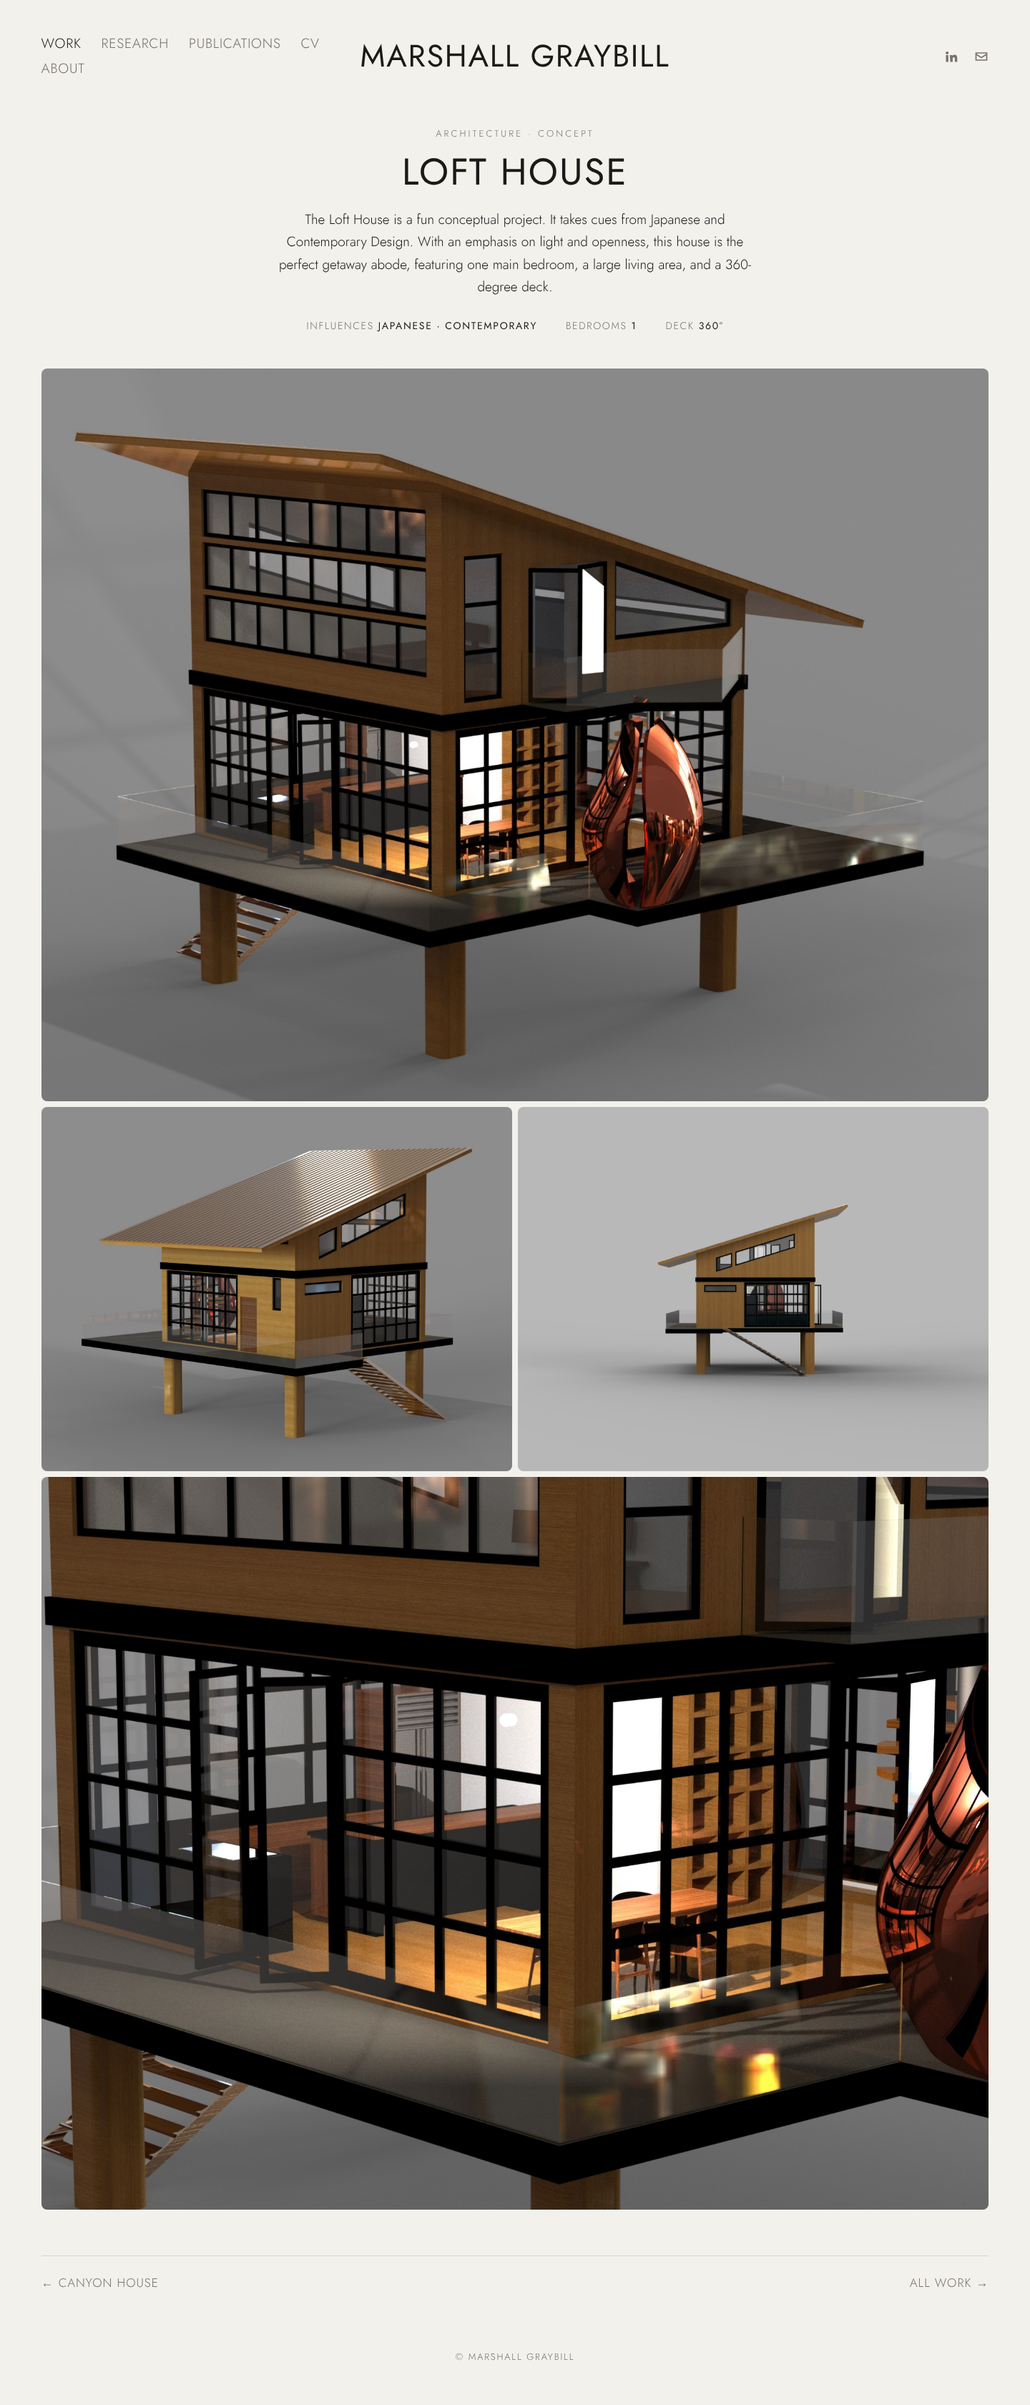
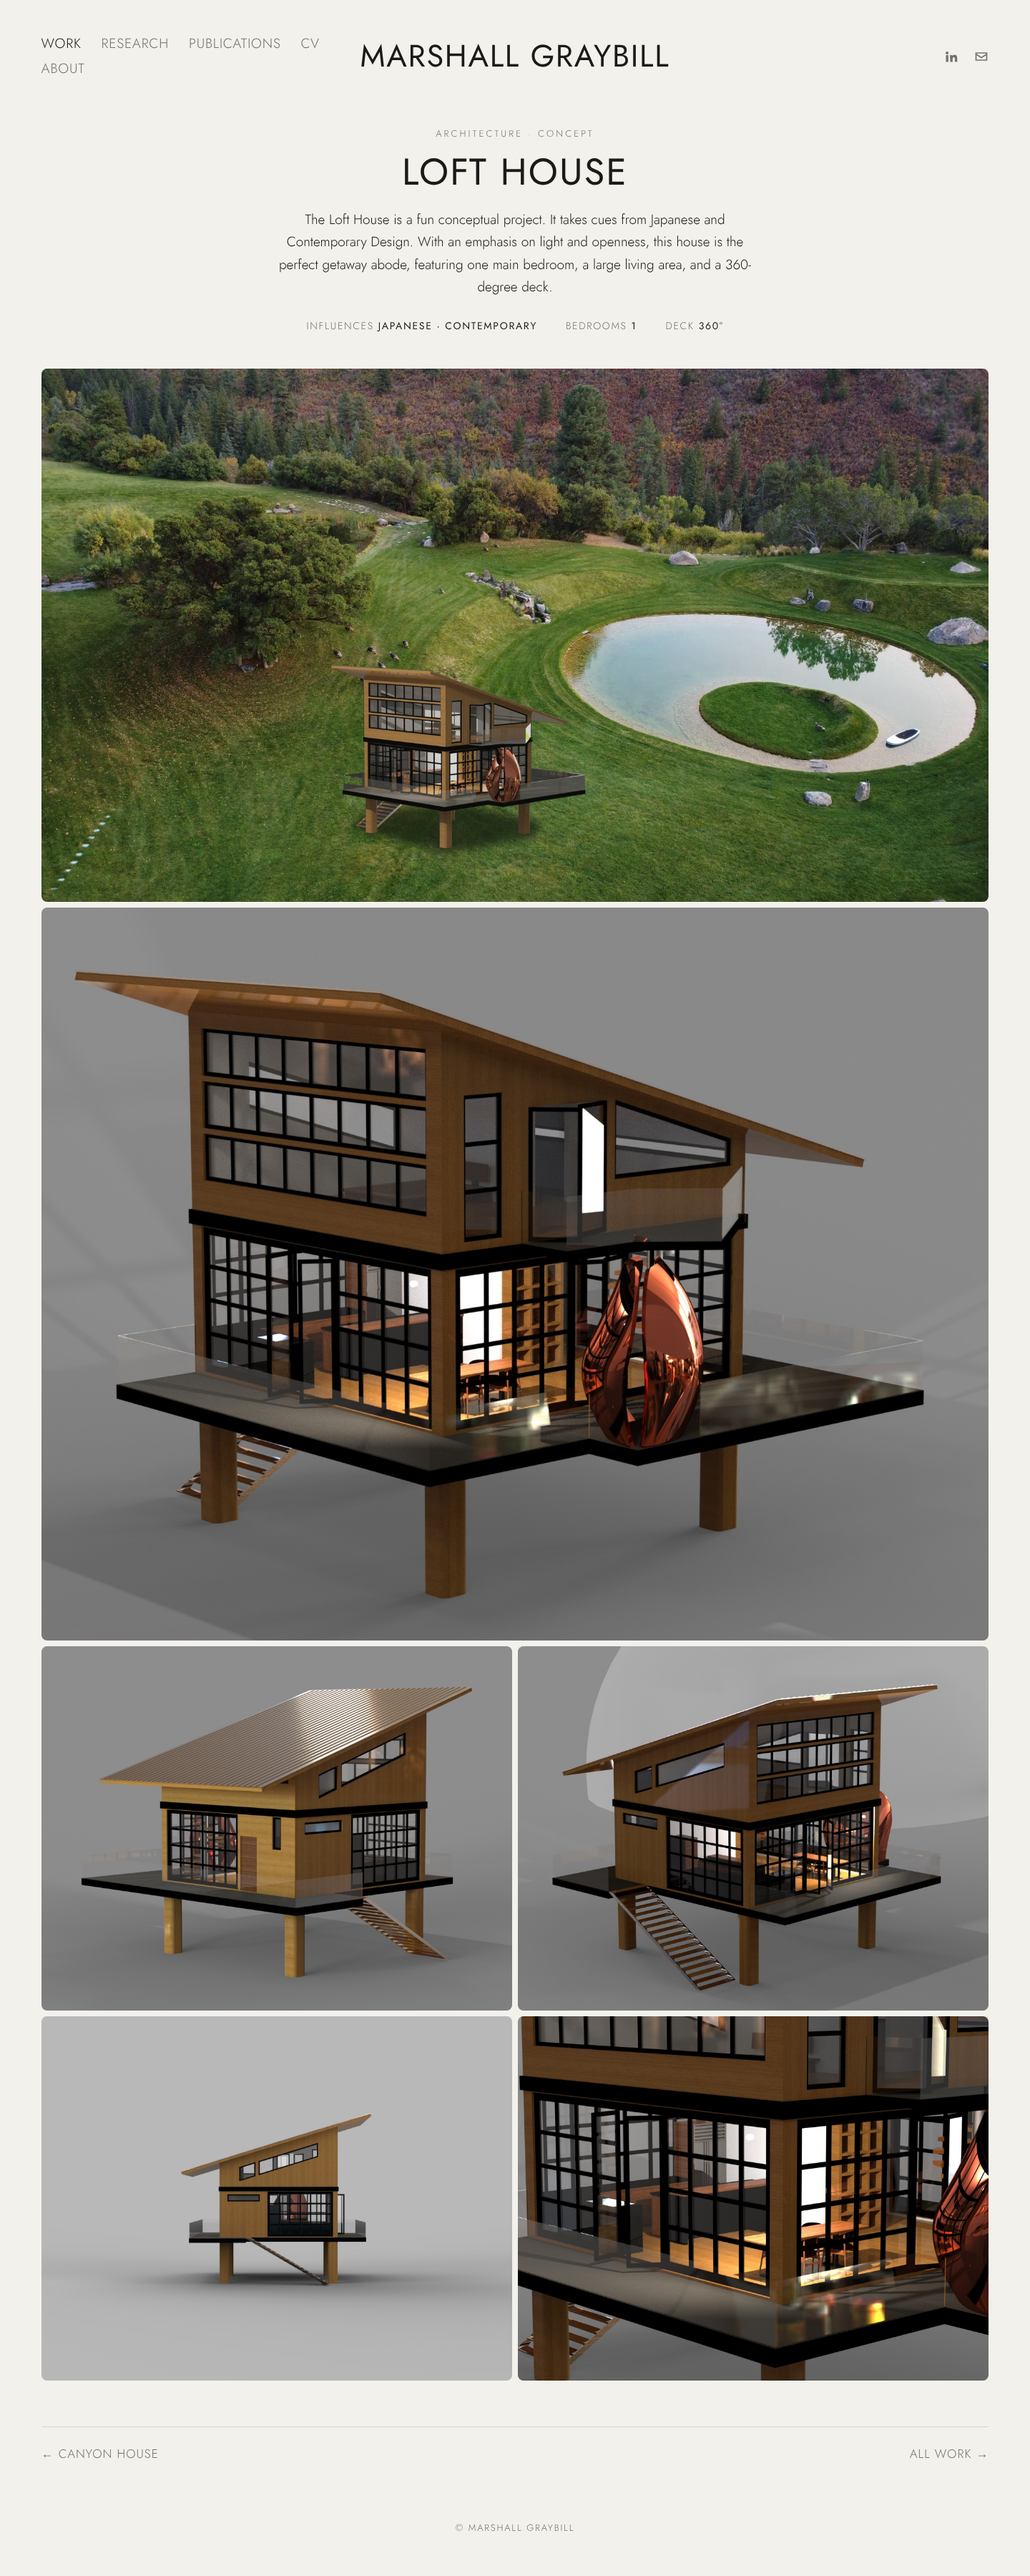
Loft House: landscape composite, rear view, new cover
Claude-Session: https://claude.ai/code/session_01FRyJPBebUtKmxdzujR9oGm

diff --git a/projects/loft-house.html b/projects/loft-house.html
@@ -40,12 +40,16 @@
   </section>
 
   <div class="shots">
+    <figure><img src="../images/projects/loft-house/landscape.jpg" alt="Loft House placed on a mountain meadow beside a round pond" loading="lazy"></figure>
     <figure><img src="../images/projects/loft-house/evening.jpg" alt="Loft House at dusk with lit gridded windows, glass-railed deck, and a copper sculpture" loading="lazy"></figure>
     <div class="row">
       <figure><img src="../images/projects/loft-house/perspective.jpg" alt="Loft House perspective showing the corrugated shed roof raised on timber columns" loading="lazy"></figure>
-      <figure><img src="../images/projects/loft-house/elevation.jpg" alt="Loft House side elevation with clerestory windows and exterior stair" loading="lazy"></figure>
+      <figure><img src="../images/projects/loft-house/rear.jpg" alt="Loft House from the rear, with the exterior stair rising to the deck and folding glass doors open" loading="lazy"></figure>
     </div>
-    <figure><img src="../images/projects/loft-house/deck-detail.jpg" alt="Close-up of the lower level: folding glass doors open onto the deck, kitchen and dining visible inside" loading="lazy"></figure>
+    <div class="row">
+      <figure><img src="../images/projects/loft-house/elevation.jpg" alt="Loft House side elevation with clerestory windows and exterior stair" loading="lazy"></figure>
+      <figure><img src="../images/projects/loft-house/deck-detail.jpg" alt="Close-up of the lower level: folding glass doors open onto the deck, kitchen and dining visible inside" loading="lazy"></figure>
+    </div>
   </div>
 
   <nav class="pager" aria-label="Projects">
